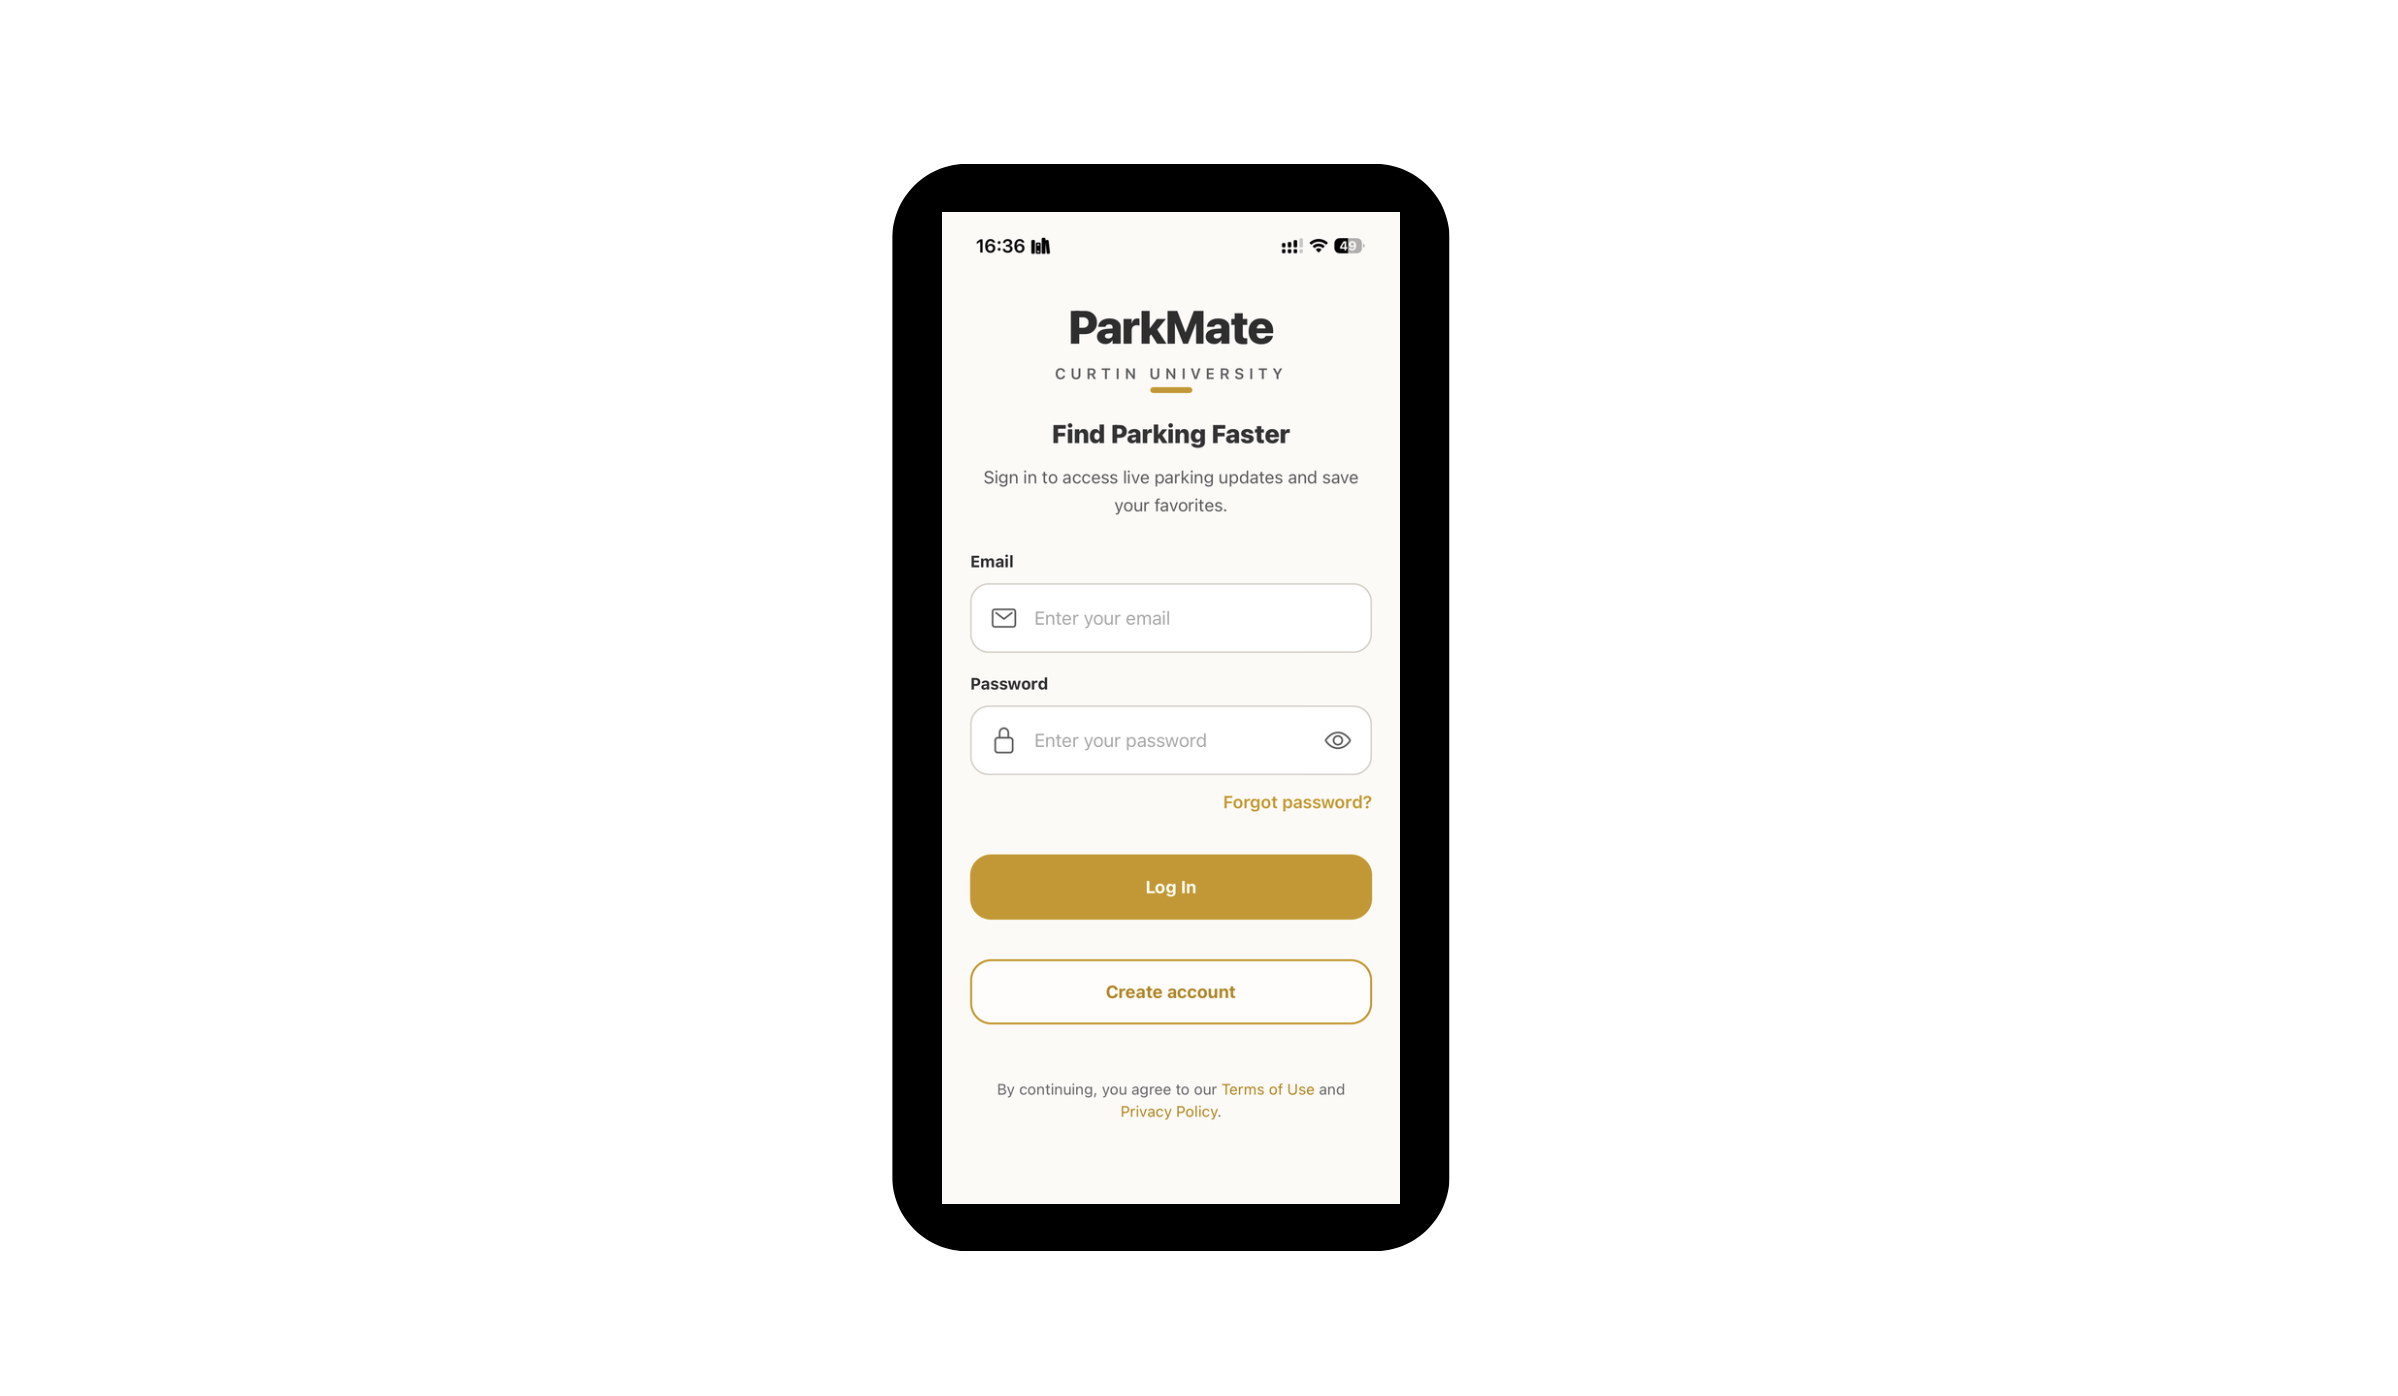
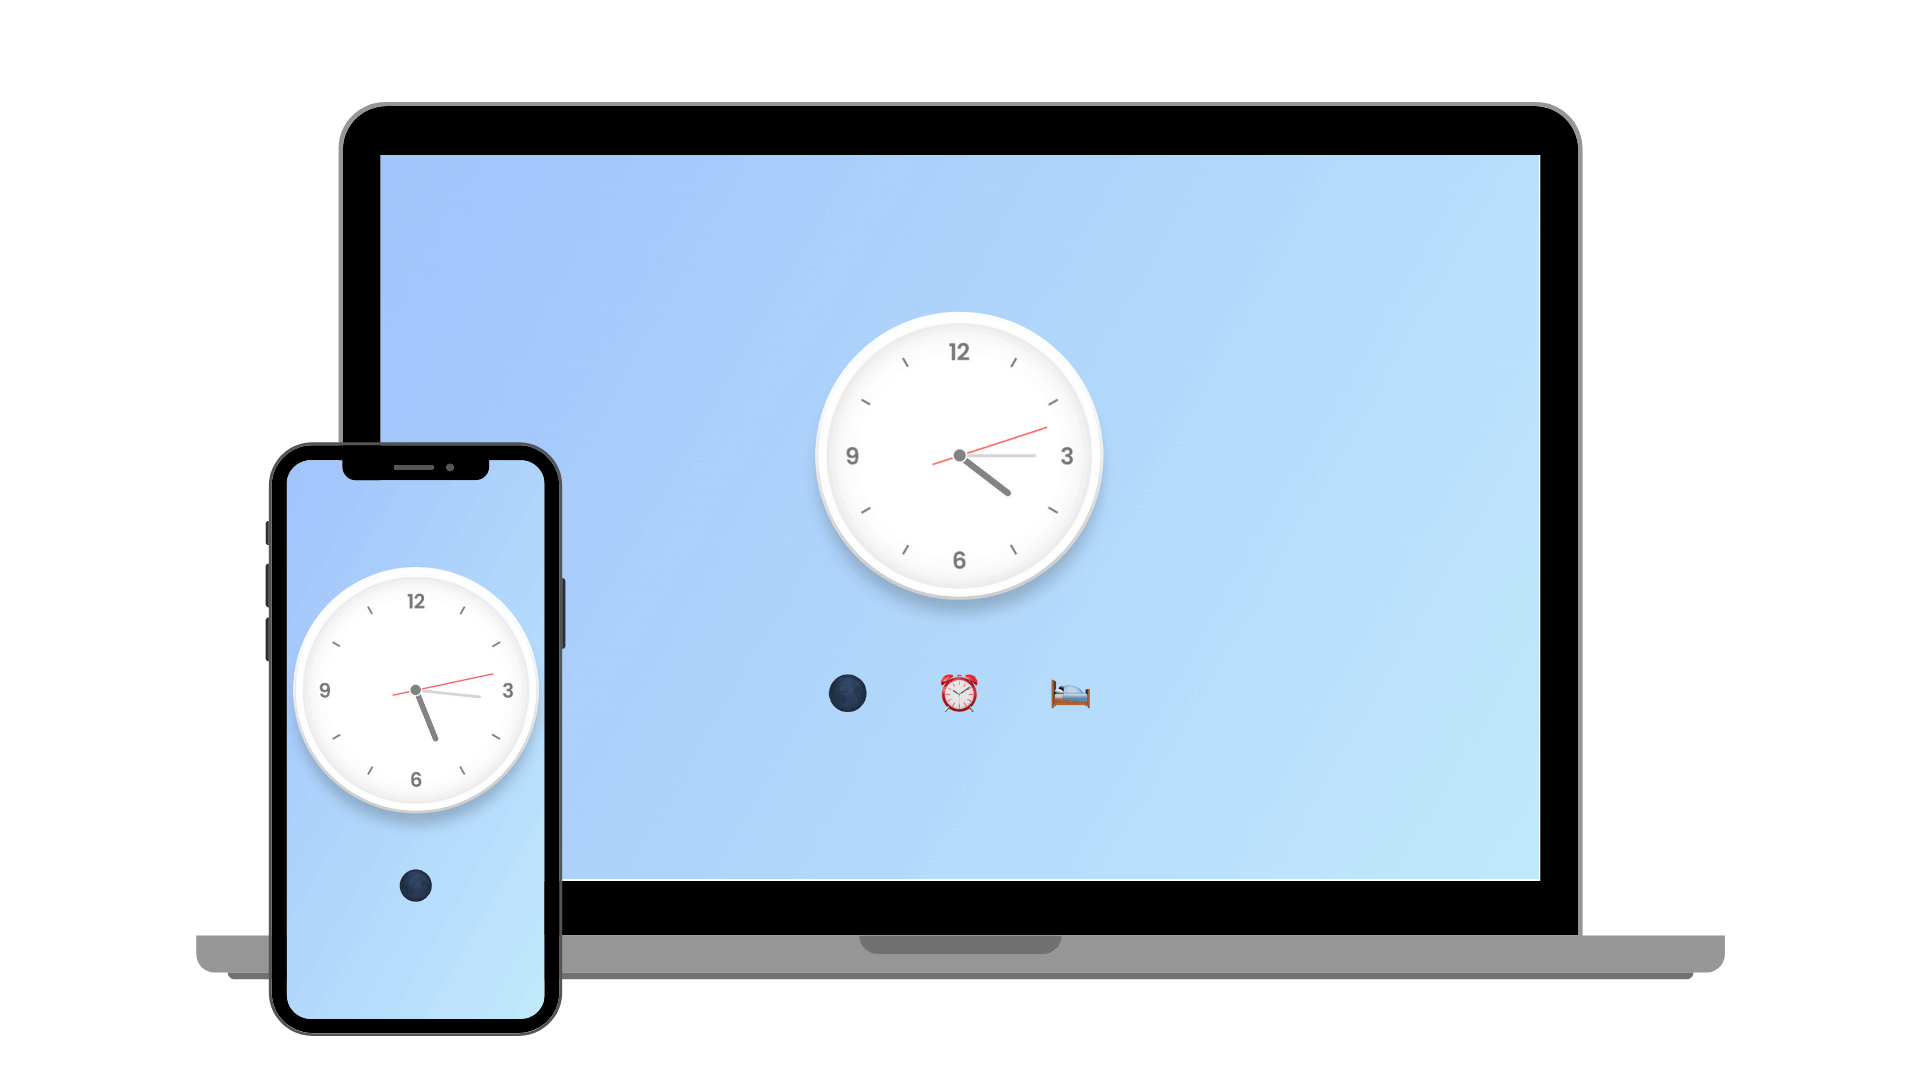
Revert "Add ParkMate project to portfolio"
This reverts commit 86d623655e21ca36472bc2c9e13992ed34801a91.

diff --git a/src/info/Info.js b/src/info/Info.js
@@ -98,9 +98,9 @@ export const info = {
             image: mock1
         },
         {
-            title: "ParkMate",
-            live: "https://drive.google.com/file/d/13BSGTvybm8EppH5Yo1T83p7cskeGA-8R/view?usp=drive_link",
-            source: "https://github.com/unbee-lee/ParkMate",
+            title: "Coming soon",
+            live: "https://github.com/unbee-lee/Building-a-classification-model",
+            source: "https://github.com/unbee-lee/Building-a-classification-model",
             image: mock2
         }
         // {